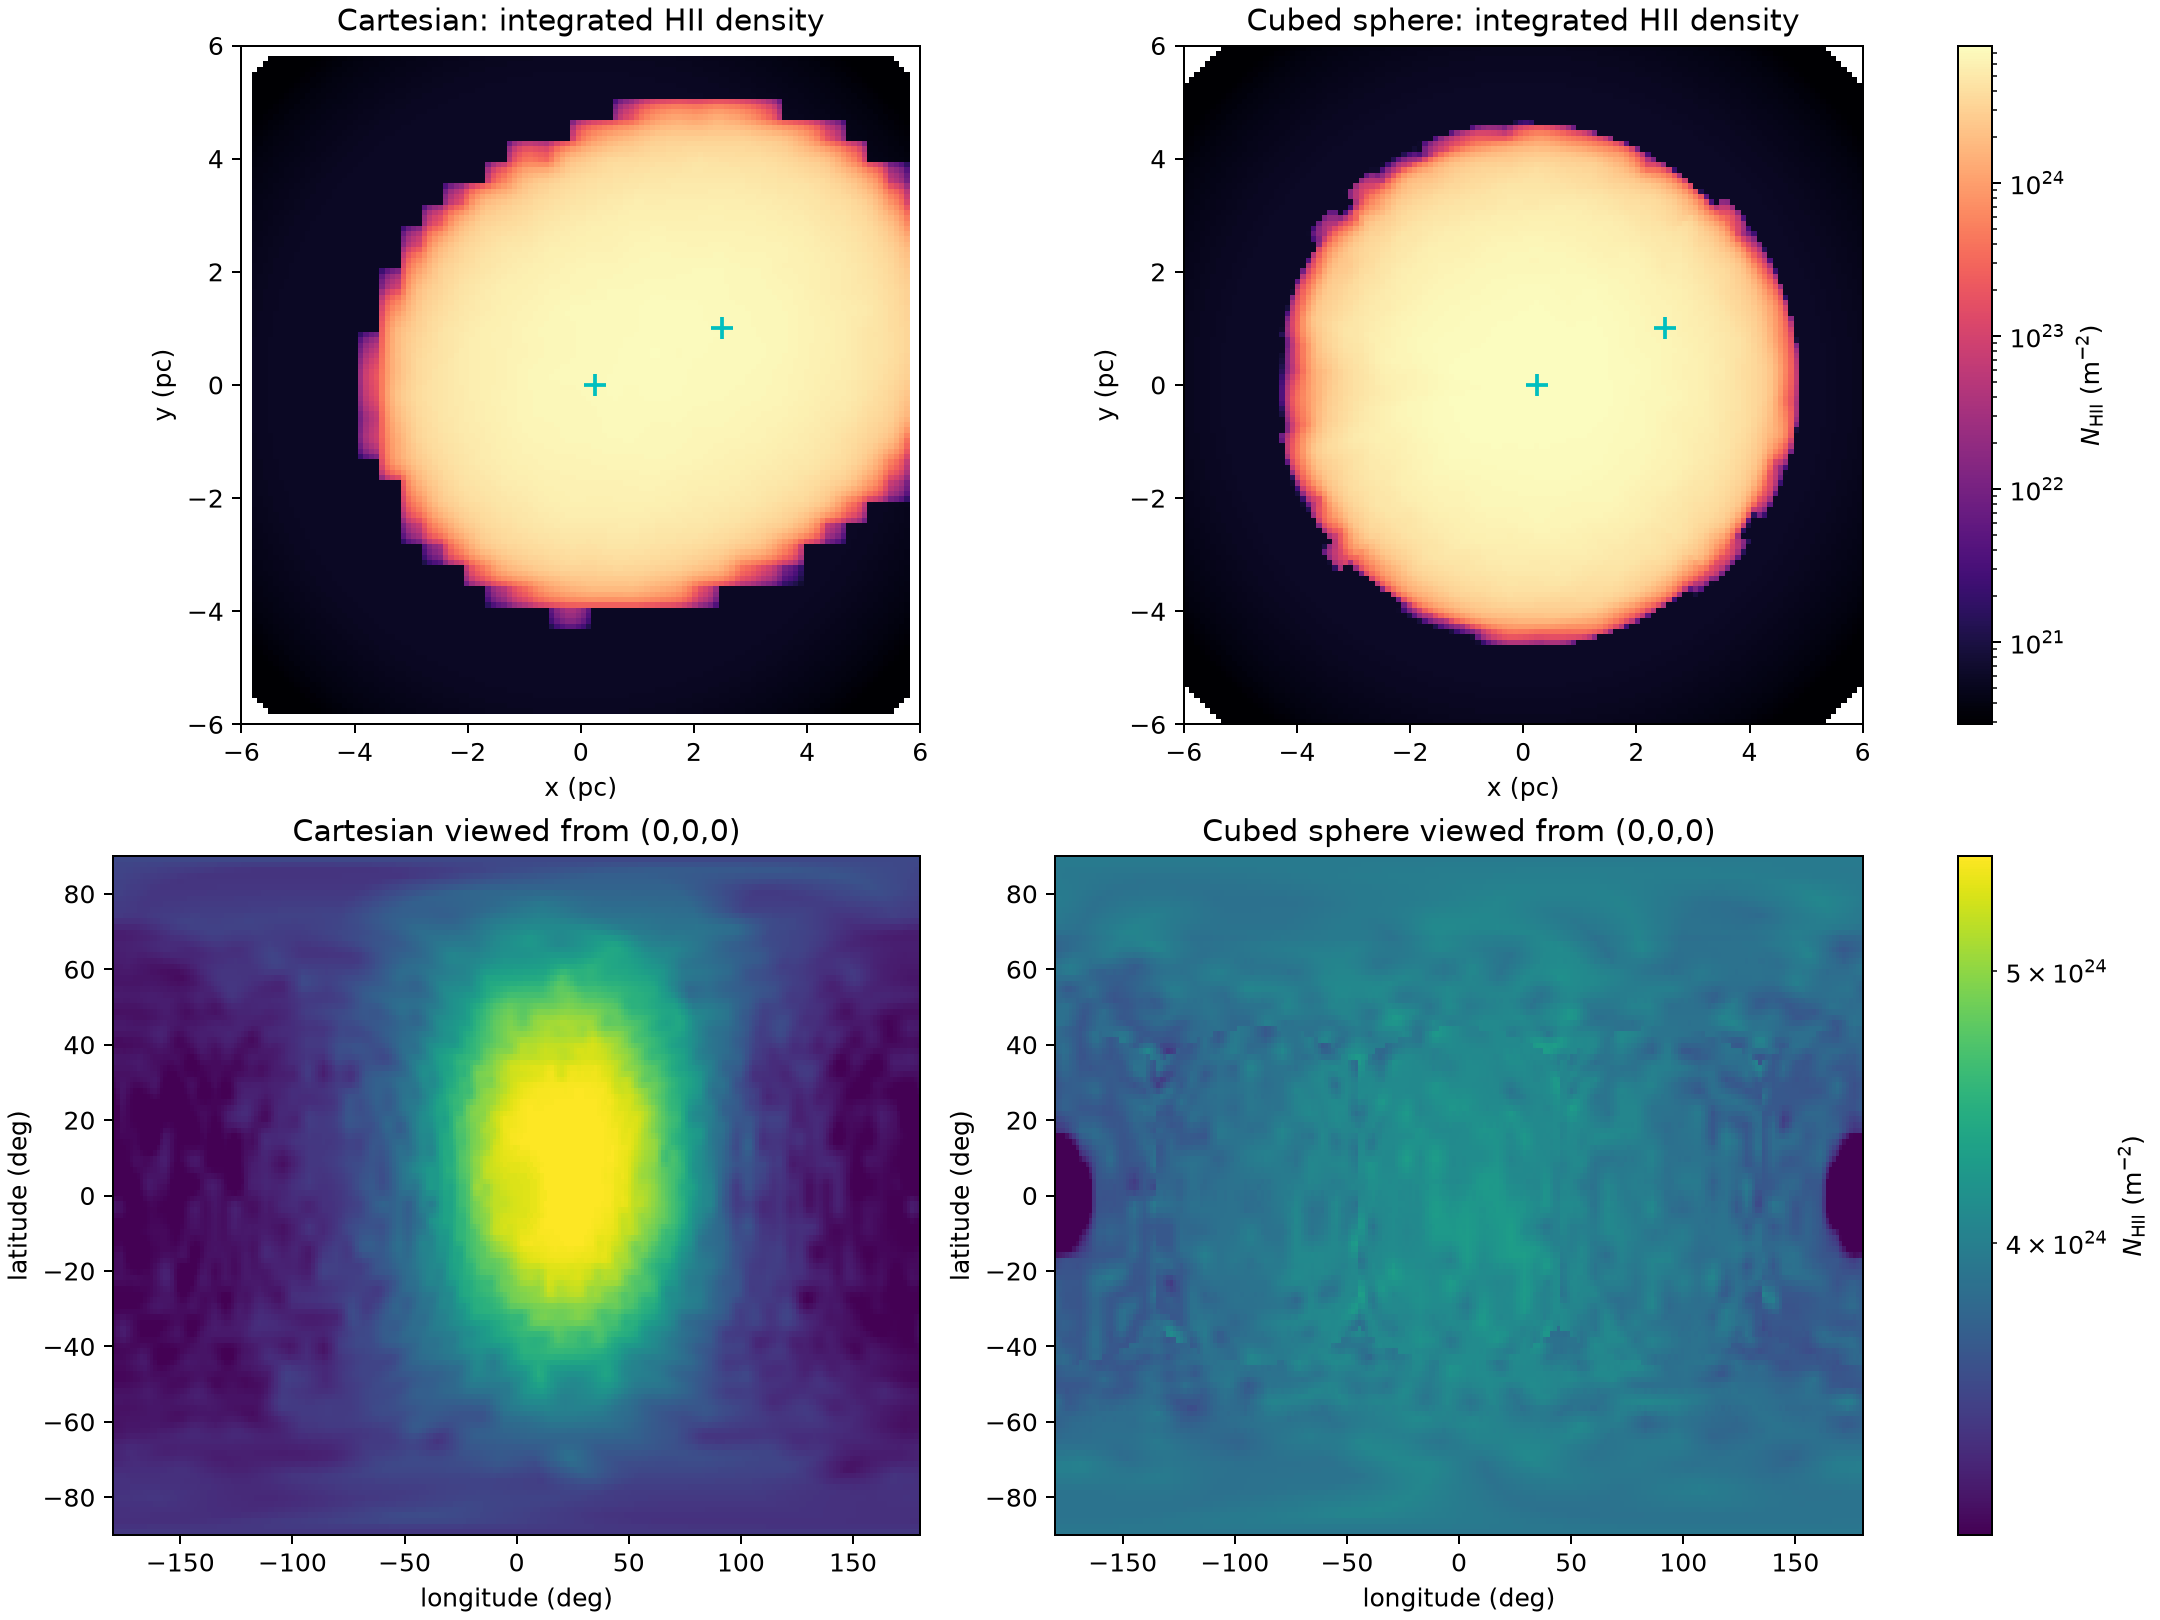
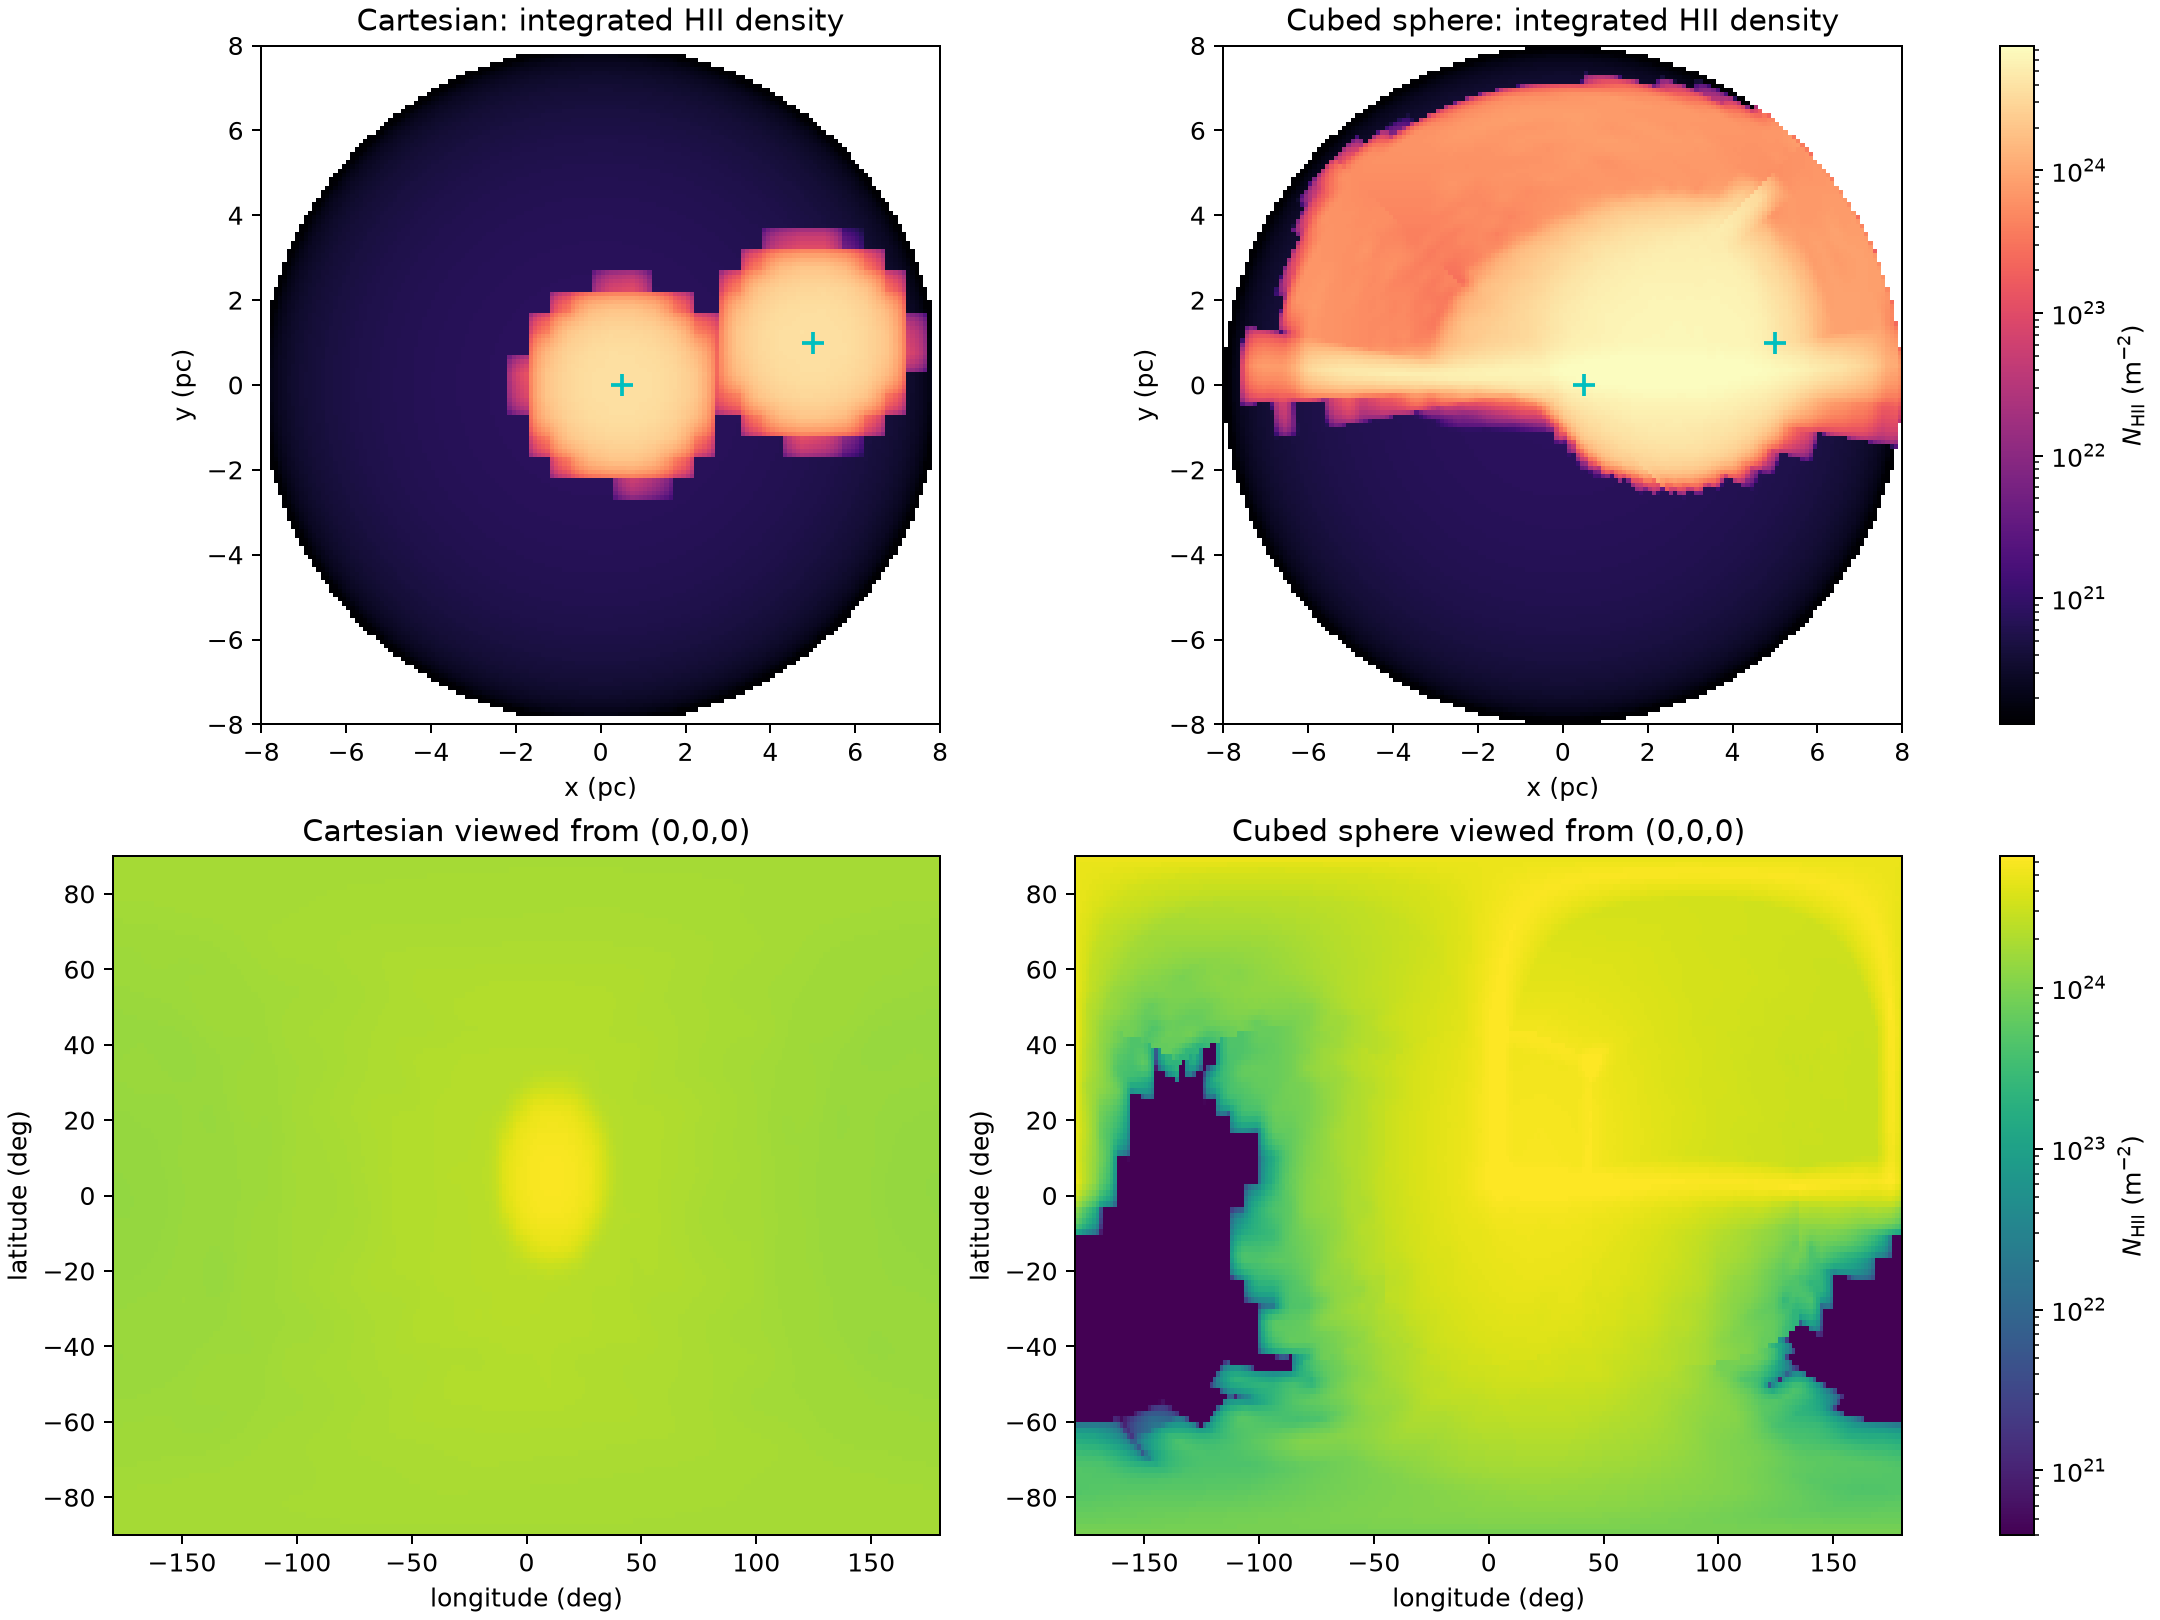
Improve spherical grid resolution comparison

diff --git a/benchmarks/spherical_task_comparison/plot_comparison.py b/benchmarks/spherical_task_comparison/plot_comparison.py
@@ -1,6 +1,7 @@
 #!/usr/bin/env python3
 """Compare Cartesian and cubed-sphere task-based ionization outputs."""
 
+import argparse
 from pathlib import Path
 
 import matplotlib
@@ -11,11 +12,23 @@ from scipy.ndimage import map_coordinates
 
 PC = 3.085677581491367e16
 ROOT = Path(__file__).resolve().parent
-NCART = 32
-NANG = 16
-NRAD = 32
 RMIN = 0.05
 RMAX = 8.0
+EXTENT = 8.0
+
+parser = argparse.ArgumentParser()
+parser.add_argument("--high-resolution", action="store_true")
+args = parser.parse_args()
+if args.high_resolution:
+    NCART, NANG, NRAD = 64, 32, 48
+    CART_PATTERN = "output_cartesian/cartesian_highres_*.txt"
+    SPHERICAL_PATTERN = "output_spherical/spherical_highres_*.txt"
+    OUTPUT_NAME = "two_source_comparison_highres.png"
+else:
+    NCART, NANG, NRAD = 32, 16, 32
+    CART_PATTERN = "output_cartesian/cartesian_[0-9][0-9][0-9].txt"
+    SPHERICAL_PATTERN = "output_spherical/spherical_[0-9][0-9][0-9].txt"
+    OUTPUT_NAME = "two_source_comparison.png"
 
 
 def read_output(pattern):
@@ -40,12 +53,13 @@ def face_coordinates(points):
     return face, u, v
 
 
-cart_xyz, cart_values = read_output("output_cartesian/cartesian_*.txt")
+cart_xyz, cart_values = read_output(CART_PATTERN)
 cart = np.empty((NCART, NCART, NCART))
-cart_i = np.floor((cart_xyz + 6.0) * NCART / 12.0).astype(int)
+cart_i = np.floor(
+    (cart_xyz + EXTENT) * NCART / (2.0 * EXTENT)).astype(int)
 cart[cart_i[:, 0], cart_i[:, 1], cart_i[:, 2]] = cart_values
 
-sph_xyz, sph_values = read_output("output_spherical/spherical_*.txt")
+sph_xyz, sph_values = read_output(SPHERICAL_PATTERN)
 sph = np.empty((6, NANG, NANG, NRAD))
 sface, su, sv = face_coordinates(sph_xyz)
 si = np.floor(0.5 * (su + 1.0) * NANG).astype(int)
@@ -59,7 +73,8 @@ sph[sface, np.clip(si, 0, NANG - 1), np.clip(sj, 0, NANG - 1),
 def sample_cartesian(points):
     shape = points.shape[:-1]
     coordinates = (
-        (points.reshape(-1, 3) + 6.0) * NCART / 12.0 - 0.5).T
+        (points.reshape(-1, 3) + EXTENT) * NCART /
+        (2.0 * EXTENT) - 0.5).T
     values = map_coordinates(cart, coordinates, order=1, mode="constant",
                             cval=0.0)
     return values.reshape(shape)
@@ -85,16 +100,16 @@ def sample_spherical(points):
 
 
 # Integrate both solutions on exactly the same Cartesian sampling volume.
-nplot = 128
-edges = np.linspace(-6.0, 6.0, nplot + 1)
+nplot = 160
+edges = np.linspace(-EXTENT, EXTENT, nplot + 1)
 centres = 0.5 * (edges[1:] + edges[:-1])
 x, y, z = np.meshgrid(centres, centres, centres, indexing="ij")
 points = np.stack((x, y, z), axis=-1)
 common = np.linalg.norm(points, axis=-1) <= RMAX
 cart_column = np.sum(sample_cartesian(points) * common, axis=2) * (
-    12.0 * PC / nplot)
+    2.0 * EXTENT * PC / nplot)
 sph_column = np.sum(sample_spherical(points) * common, axis=2) * (
-    12.0 * PC / nplot)
+    2.0 * EXTENT * PC / nplot)
 
 # All-sky columns from the origin, using common rays and radial samples.
 nlon, nlat, nray = 240, 120, 160
@@ -103,7 +118,7 @@ lat = np.linspace(-0.5 * np.pi, 0.5 * np.pi, nlat)
 llon, llat = np.meshgrid(lon, lat)
 directions = np.stack((np.cos(llat) * np.cos(llon),
                        np.cos(llat) * np.sin(llon), np.sin(llat)), axis=-1)
-radii = np.linspace(RMIN, 6.0, nray)
+radii = np.linspace(RMIN, RMAX, nray)
 ray_points = directions[..., None, :] * radii[None, None, :, None]
 cart_sky = np.trapezoid(sample_cartesian(ray_points), radii * PC, axis=2)
 sph_sky = np.trapezoid(sample_spherical(ray_points), radii * PC, axis=2)
@@ -116,9 +131,11 @@ for ax, image, title in zip(
         axes[0], (cart_column, sph_column),
         ("Cartesian: integrated HII density",
          "Cubed sphere: integrated HII density")):
-    plotted = ax.imshow(image.T, origin="lower", extent=(-6, 6, -6, 6),
+    plotted = ax.imshow(
+        image.T, origin="lower",
+        extent=(-EXTENT, EXTENT, -EXTENT, EXTENT),
                         norm="log", vmin=vmin, vmax=vmax, cmap="magma")
-    ax.plot([0.25, 2.5], [0.0, 1.0], "c+", ms=9, mew=1.5)
+    ax.plot([0.5, 5.0], [0.0, 1.0], "c+", ms=9, mew=1.5)
     ax.set(title=title, xlabel="x (pc)", ylabel="y (pc)")
 fig.colorbar(plotted, ax=axes[0], label=r"$N_{\rm HII}$ (m$^{-2}$)")
 
@@ -135,6 +152,6 @@ for ax, image, title in zip(
     ax.set(title=title, xlabel="longitude (deg)", ylabel="latitude (deg)")
 fig.colorbar(plotted_sky, ax=axes[1], label=r"$N_{\rm HII}$ (m$^{-2}$)")
 
-output = ROOT / "two_source_comparison.png"
+output = ROOT / OUTPUT_NAME
 fig.savefig(output, dpi=180)
 print(output)

diff --git a/benchmarks/spherical_task_comparison/README.md b/benchmarks/spherical_task_comparison/README.md
@@ -1,7 +1,7 @@
 # Task-based cubed-sphere comparison
 
 This is a deliberately small Cartesian/cubed-sphere comparison using the same
-homogeneous gas and two off-centre sources.
+homogeneous gas and two separated off-centre sources.
 
 From this directory:
 
@@ -11,6 +11,20 @@ CMacIonize --task-based --params cartesian.param --threads 4 --dirty --no-initia
 CMacIonize --task-based --params spherical.param --threads 4 --dirty --no-initial-output
 python3 plot_comparison.py
 ```
+
+The coarse spherical grid is intentionally useful as a failure/control case:
+16 angular cells per face under-resolves an off-centre source at about 5 pc.
+The recommended comparison uses nearly equal cell counts:
+
+```sh
+CMacIonize --task-based --params cartesian_highres.param --threads 4 --dirty --no-initial-output
+CMacIonize --task-based --params spherical_highres.param --threads 4 --dirty --no-initial-output
+python3 plot_comparison.py --high-resolution
+```
+
+The Cartesian run has 262,144 cells and 0.25 pc cubic cells. The spherical run
+has 294,912 cells, 0.166 pc radial spacing, and approximately 0.31 pc
+tangential spacing at the distant source.
 
 The spherical grid parameters are all in `spherical.param`. Set `radial
 spacing` to `logarithmic` for log-R cells. `HDF5DensityFunction` can be selected
